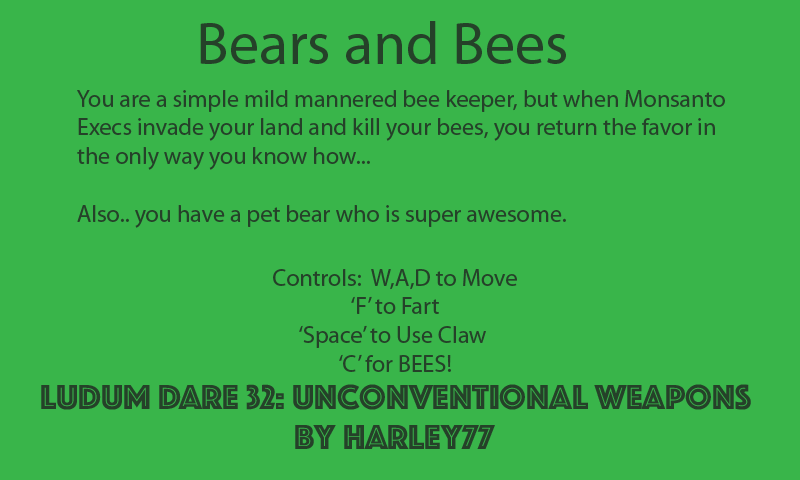
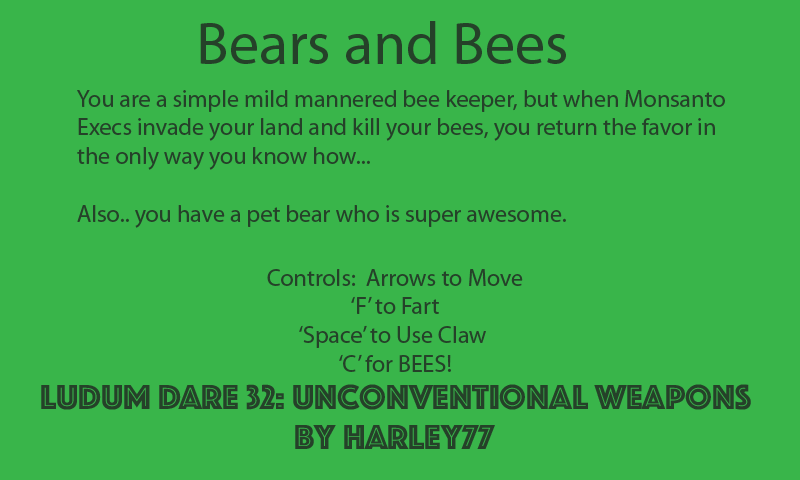
FIXES!

Changed region(s): [[0.3125, 0.5625, 0.6562, 0.5938]]

diff --git a/player.js b/player.js
@@ -56,10 +56,10 @@
 
     this.game.cursors = this.game.input.keyboard.createCursorKeys();
     this.game.controls = {
-      up: this.game.input.keyboard.addKey(Phaser.Keyboard.W),
-      down: this.game.input.keyboard.addKey(Phaser.Keyboard.S),
-      left: this.game.input.keyboard.addKey(Phaser.Keyboard.A),
-      right: this.game.input.keyboard.addKey(Phaser.Keyboard.D),
+      up: this.game.input.keyboard.addKey(Phaser.Keyboard.UP),
+      down: this.game.input.keyboard.addKey(Phaser.Keyboard.DOWN),
+      left: this.game.input.keyboard.addKey(Phaser.Keyboard.LEFT),
+      right: this.game.input.keyboard.addKey(Phaser.Keyboard.RIGHT),
       fire: this.game.input.keyboard.addKey(Phaser.Keyboard.SPACEBAR),
       fart: this.game.input.keyboard.addKey(Phaser.Keyboard.F),
       bee: this.game.input.keyboard.addKey(Phaser.Keyboard.C),
@@ -121,7 +121,7 @@
       }
 
       if (!this.controlDisabled ) {
-        if (this.game.controls.left.isDown && this.animationTick === 0) {
+        if ((this.game.controls.left.isDown) && this.animationTick === 0) {
           this.facing = -1;
           if (this.riding) {
             this.animations.play('bear_walk');

diff --git a/actor.js b/actor.js
@@ -169,6 +169,9 @@
   LD.Enemy.constructor = LD.Enemy;
 
   LD.Enemy.prototype.update = function () {
+
+    // console.log((this.gameState.player.body.x) + innerWidth / 2);
+
     this.phy.collide(this, this.gameState.level.layer[2]);
     this.phy.collide(this.enemyPool, this.gameState.level.layer[2]);
     this.phy.collide(this.emitter, this.gameState.level.layer[2]);
@@ -178,7 +181,7 @@
       this.nextEnemyAt = this.game.time.now + this.enemyDelay;
       var enemy = this.enemyPool.getFirstExists(false);
       // spawn at a random location top of the screen
-      enemy.reset((this.game.camera.position.x * 2) + 250, 100);
+      enemy.reset((this.gameState.player.body.x) + window.innerWidth + 300, 100);
       enemy.health = 100;
       enemy.alive = true;
       // also randomize the speed
